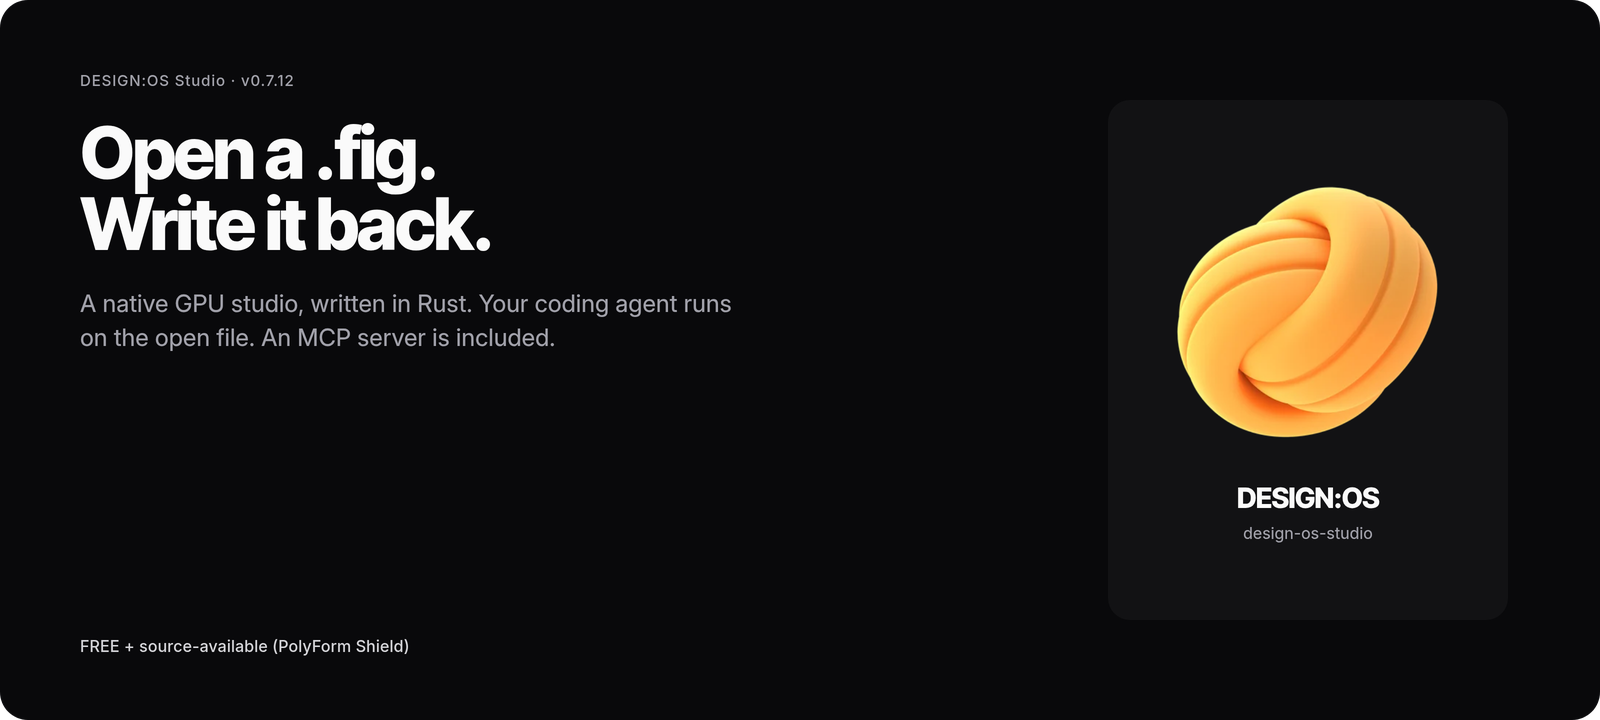
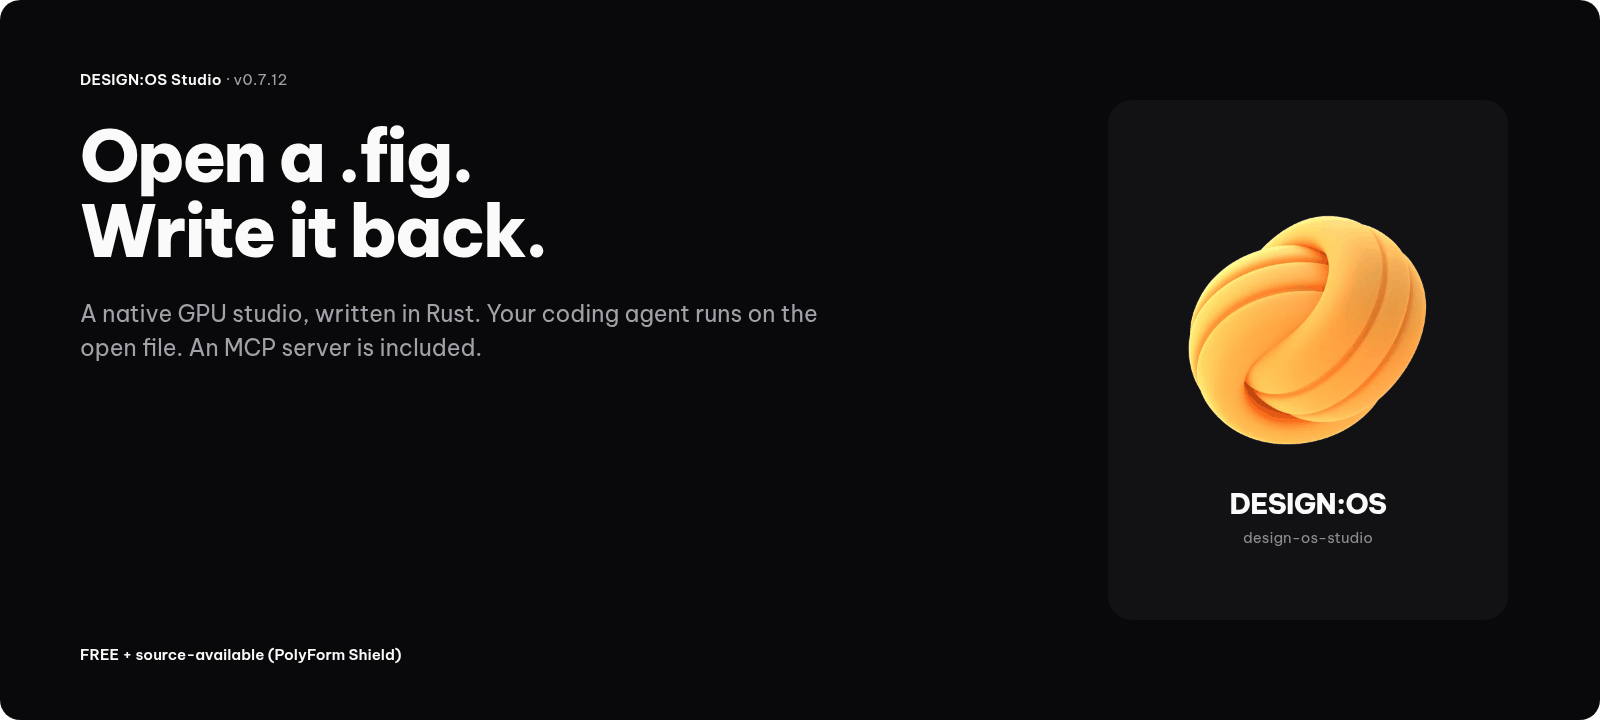
docs: re-render README assets in Be Vietnam Pro

diff --git a/docs/images/readme/PROVENANCE.md b/docs/images/readme/PROVENANCE.md
@@ -4,7 +4,7 @@
 `design-os-studio.webp` is the official hub mark from `/workspace/wt-hub/assets/logos/design-os-studio.webp`, copied as-is. 384×384 RGBA. Accent in the covers and flow arrows is #E36323, the Studio orange Jang chose on 2026-11-09. The mark itself is not recoloured.
 
 ## Covers, flow diagrams, and social preview
-Family-matched cards, 1600×720 covers, 1600×1000 flow, 1280×640 social. Inter Tight and Inter. Dark #09090b, light #f4f4f5. Footer: FREE + source-available (PolyForm Shield).
+Family-matched cards, 1600×720 covers, 1600×1000 flow, 1280×640 social. Be Vietnam Pro (400, 600, 800), re-rendered on 2026-11-16 to match the DESIGN:OS family font. Dark #09090b, light #f4f4f5. Footer: FREE + source-available (PolyForm Shield).
 
 ## Real builds (`builds/`)
 `studio-fig-open.jpg` and `studio-kit-type.jpg` are JPEG encodes of real headless captures from the verified DESIGN:OS Studio 0.7.12 Linux build (tarball sha256 9e8e64d3512c96887554e017c0d714dc60035768fa18f6afe05039f9a1161dfa), taken 2026-11-12 for the "Open a .fig without Figma" guide. Originals: `/workspace/growth/ideas-drafts-2026-11-12/04-open-fig-guide/images/`.
